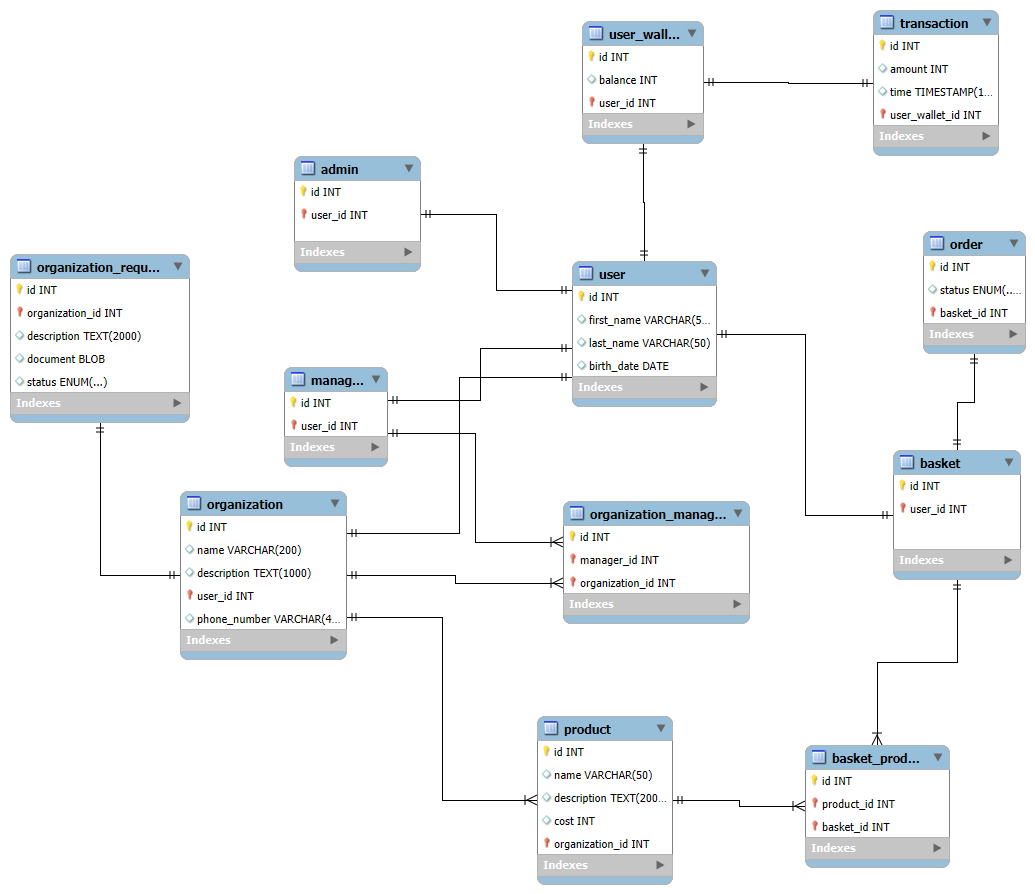
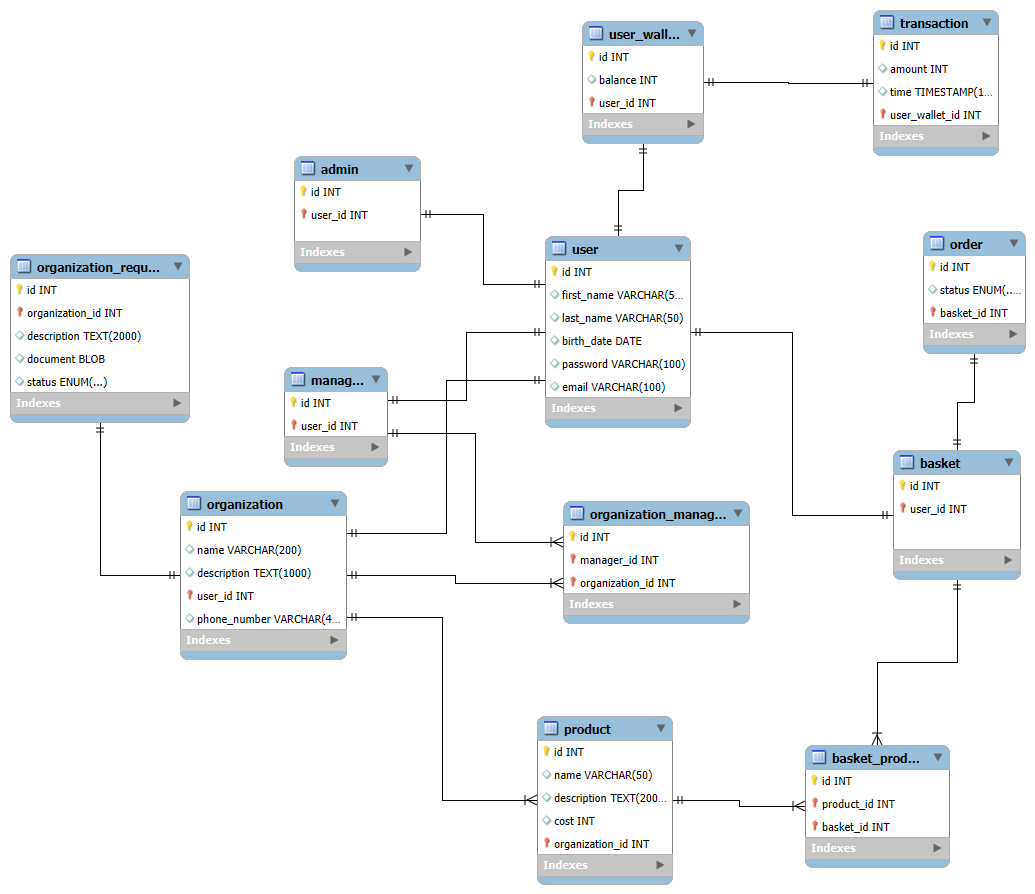
added email and password for user

Changed region(s): [[0.4947, 0.2416, 0.7111, 0.4832], [0.4329, 0.4228, 0.4638, 0.453]]

diff --git a/README.md b/README.md
@@ -26,6 +26,8 @@
 2. first_name - имя
 3. last_name - фамилия
 4. birth_date - дата рождения
+5. email - почта юзера
+6. password - пароль юзера
 
 ### admin
 
